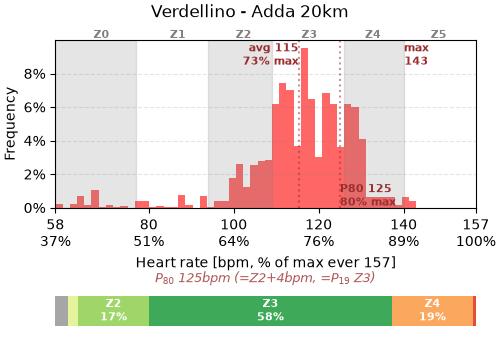
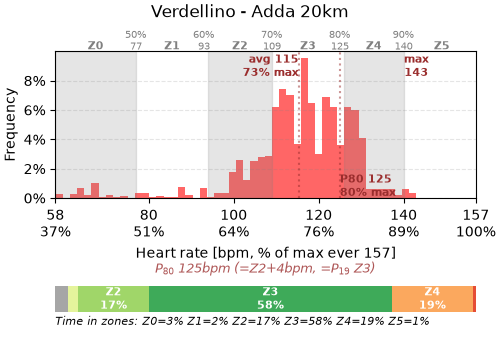
feat(sport-analysis): draw % time in zones text and draw HR zones boundary points

diff --git a/projects/sport-analysis/sport_analysis/plot/base_plot.py b/projects/sport-analysis/sport_analysis/plot/base_plot.py
@@ -451,25 +451,51 @@ class MixinHrPlot(BasePlot):
             color="grey",
             alpha=0.2,
         )
+        if z0_x1 - axes.get_xlim()[0] > 9:
+            # Draw "Z0" only if there's enough room.
+            axes.annotate(
+                "Z0",
+                ((z0_x0 + z0_x1) / 2, axes.get_ylim()[1]),
+                xytext=(0, 0.2),
+                textcoords="offset fontsize",
+                color="gray",
+                fontsize=8,
+                fontweight="bold",
+                horizontalalignment="center",
+            )
         axes.annotate(
-            "Z0",
-            ((z0_x0 + z0_x1) / 2, axes.get_ylim()[1]),
-            xytext=(-0.2, 0.2),
+            f"{50}%\n{z0_x1}",
+            (z0_x1, axes.get_ylim()[1]),
+            xytext=(0, 0.2),
             textcoords="offset fontsize",
             color="gray",
-            fontsize=8,
-            fontweight="bold",
+            fontsize=7,
+            # fontweight="bold",
+            horizontalalignment="center",
         )
         # Z1.
         z1_x0, z1_x1 = _get_bpm_range_for_hr_zone(1, hr_min, hr_max_ever)
+        if z1_x1 - axes.get_xlim()[0] > 9:
+            # Draw "Z1" only if there's enough room.
+            axes.annotate(
+                "Z1",
+                ((z1_x0 + z1_x1) / 2, axes.get_ylim()[1]),
+                xytext=(0, 0.2),
+                textcoords="offset fontsize",
+                color="gray",
+                fontsize=8,
+                fontweight="bold",
+                horizontalalignment="center",
+            )
         axes.annotate(
-            "Z1",
-            ((z1_x0 + z1_x1) / 2, axes.get_ylim()[1]),
-            xytext=(-0.2 * 1, 0.2),
+            f"{60}%\n{z1_x1}",
+            (z1_x1, axes.get_ylim()[1]),
+            xytext=(0, 0.2),
             textcoords="offset fontsize",
             color="gray",
-            fontsize=8,
-            fontweight="bold",
+            fontsize=7,
+            # fontweight="bold",
+            horizontalalignment="center",
         )
         # Z2.
         z2_x0, z2_x1 = _get_bpm_range_for_hr_zone(2, hr_min, hr_max_ever)
@@ -479,25 +505,51 @@ class MixinHrPlot(BasePlot):
             color="grey",
             alpha=0.2,
         )
+        if z2_x1 - axes.get_xlim()[0] > 9:
+            # Draw "Z2" only if there's enough room.
+            axes.annotate(
+                "Z2",
+                ((z2_x0 + z2_x1) / 2, axes.get_ylim()[1]),
+                xytext=(0, 0.2),
+                textcoords="offset fontsize",
+                color="gray",
+                fontsize=8,
+                fontweight="bold",
+                horizontalalignment="center",
+            )
         axes.annotate(
-            "Z2",
-            ((z2_x0 + z2_x1) / 2, axes.get_ylim()[1]),
-            xytext=(-0.2 * 2, 0.2),
+            f"{70}%\n{z2_x1}",
+            (z2_x1, axes.get_ylim()[1]),
+            xytext=(0, 0.2),
             textcoords="offset fontsize",
             color="gray",
-            fontsize=8,
-            fontweight="bold",
+            fontsize=7,
+            # fontweight="bold",
+            horizontalalignment="center",
         )
         # Z3.
         z3_x0, z3_x1 = _get_bpm_range_for_hr_zone(3, hr_min, hr_max_ever)
+        if z3_x1 - axes.get_xlim()[0] > 9:
+            # Draw "Z3" only if there's enough room.
+            axes.annotate(
+                "Z3",
+                ((z3_x0 + z3_x1) / 2, axes.get_ylim()[1]),
+                xytext=(0, 0.2),
+                textcoords="offset fontsize",
+                color="gray",
+                fontsize=8,
+                fontweight="bold",
+                horizontalalignment="center",
+            )
         axes.annotate(
-            "Z3",
-            ((z3_x0 + z3_x1) / 2, axes.get_ylim()[1]),
-            xytext=(-0.2 * 3, 0.2),
+            f"{80}%\n{z3_x1}",
+            (z3_x1, axes.get_ylim()[1]),
+            xytext=(0, 0.2),
             textcoords="offset fontsize",
             color="gray",
-            fontsize=8,
-            fontweight="bold",
+            fontsize=7,
+            # fontweight="bold",
+            horizontalalignment="center",
         )
         # Z4.
         z4_x0, z4_x1 = _get_bpm_range_for_hr_zone(4, hr_min, hr_max_ever)
@@ -507,25 +559,39 @@ class MixinHrPlot(BasePlot):
             color="grey",
             alpha=0.2,
         )
+        if z4_x1 - axes.get_xlim()[0] > 9:
+            # Draw "Z4" only if there's enough room.
+            axes.annotate(
+                "Z4",
+                ((z4_x0 + z4_x1) / 2, axes.get_ylim()[1]),
+                xytext=(0, 0.2),
+                textcoords="offset fontsize",
+                color="gray",
+                fontsize=8,
+                fontweight="bold",
+                horizontalalignment="center",
+            )
         axes.annotate(
-            "Z4",
-            ((z4_x0 + z4_x1) / 2, axes.get_ylim()[1]),
-            xytext=(-0.2 * 4, 0.2),
+            f"{90}%\n{z4_x1}",
+            (z4_x1, axes.get_ylim()[1]),
+            xytext=(0, 0.2),
             textcoords="offset fontsize",
             color="gray",
-            fontsize=8,
-            fontweight="bold",
+            fontsize=7,
+            # fontweight="bold",
+            horizontalalignment="center",
         )
         # Z5.
         z5_x0, z5_x1 = _get_bpm_range_for_hr_zone(5, hr_min, hr_max_ever)
         axes.annotate(
             "Z5",
             ((z5_x0 + z5_x1) / 2, axes.get_ylim()[1]),
-            xytext=(-0.2 * 5, 0.2),
+            xytext=(0, 0.2),
             textcoords="offset fontsize",
             color="gray",
             fontsize=8,
             fontweight="bold",
+            horizontalalignment="center",
         )
 
     def _plot_hr_zones_mixin(
@@ -587,12 +653,12 @@ class MixinHrPlot(BasePlot):
             # row_styles=["dim", ""],
             box=box.SIMPLE,
         )
-        table.add_column(f"Z0\n{z0_x0}-{z0_x1}", justify="center", no_wrap=True)
-        table.add_column(f"Z1\n{z1_x0}-{z1_x1}", justify="center", no_wrap=True)
-        table.add_column(f"Z2\n{z2_x0}-{z2_x1}", justify="center", no_wrap=True)
-        table.add_column(f"Z3\n{z3_x0}-{z3_x1}", justify="center", no_wrap=True)
-        table.add_column(f"Z4\n{z4_x0}-{z4_x1}", justify="center", no_wrap=True)
-        table.add_column(f"Z5\n{z5_x0}-{z5_x1}", justify="center", no_wrap=True)
+        table.add_column(f"Z0\n<50%\n{z0_x0}-{z0_x1}", justify="center", no_wrap=True)
+        table.add_column(f"Z1\n50-60%\n{z1_x0}-{z1_x1}", justify="center", no_wrap=True)
+        table.add_column(f"Z2\n60-70%\n{z2_x0}-{z2_x1}", justify="center", no_wrap=True)
+        table.add_column(f"Z3\n70-80%\n{z3_x0}-{z3_x1}", justify="center", no_wrap=True)
+        table.add_column(f"Z4\n80-90%\n{z4_x0}-{z4_x1}", justify="center", no_wrap=True)
+        table.add_column(f"Z5\n≥90%\n{z5_x0}-{z5_x1}", justify="center", no_wrap=True)
         z_perc = []
 
         for i, xdata_hr_zone_perc in enumerate(xdata_hr_zones_perc):
@@ -616,6 +682,18 @@ class MixinHrPlot(BasePlot):
                     fontweight="bold",
                 )
             z_perc.append(round(xdata_hr_zone_perc * 100))
+
+        txt = f"Time in zones: Z0={z_perc[0]}% Z1={z_perc[1]}% Z2={z_perc[2]}% Z3={z_perc[3]}% Z4={z_perc[4]}% Z5={z_perc[5]}%"
+        axes.annotate(
+            txt,
+            (axes.get_xlim()[0], axes.get_ylim()[0]),
+            xytext=(0, -1),
+            textcoords="offset fontsize",
+            # color="gray",
+            fontsize=8,
+            # fontweight="bold",
+            style="italic",
+        )
 
         # Color in red the 2 highest values in the HR zones table to be printed to the
         #  console.

diff --git a/projects/sport-analysis/TODO.md b/projects/sport-analysis/TODO.md
@@ -1,7 +1,7 @@
 
-
-- sotto le barre orizzontale delle HR zone scrivere tutte le perc:
-  Z0 1%, Z1 3%, ...
+- Aggiungi al titolo: 24.95km in 1:54:33
+- P80 scritto meglio
+  P80 a 121bpm (=Z1+18 NOOOOOOO =Z2-1bpm)
 - replace get_string_from_env() e override_settings in settings_module.py con settings_utils lib
 - activity_id: strava-* or garmin-* (oppure --stravaid=123)
   usala in search-matching-strava-activity, rename to search-matching-activity
